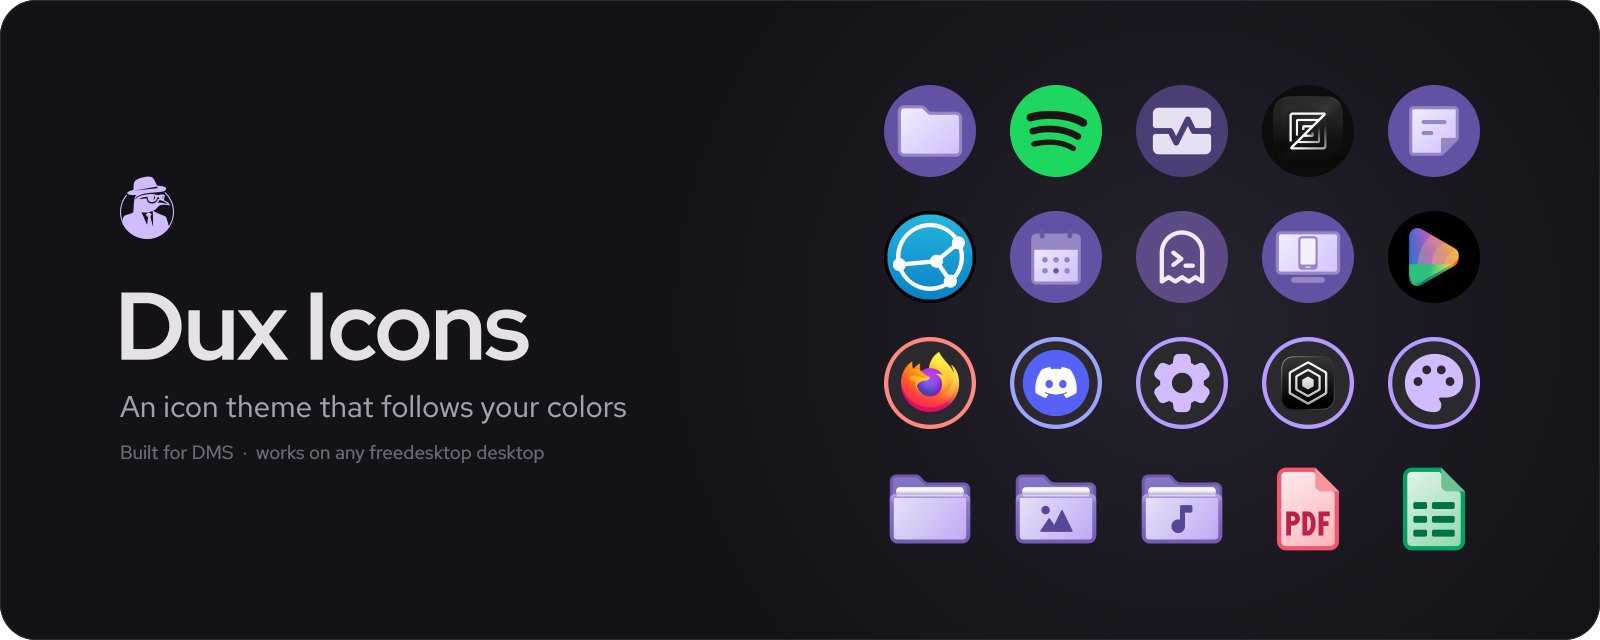
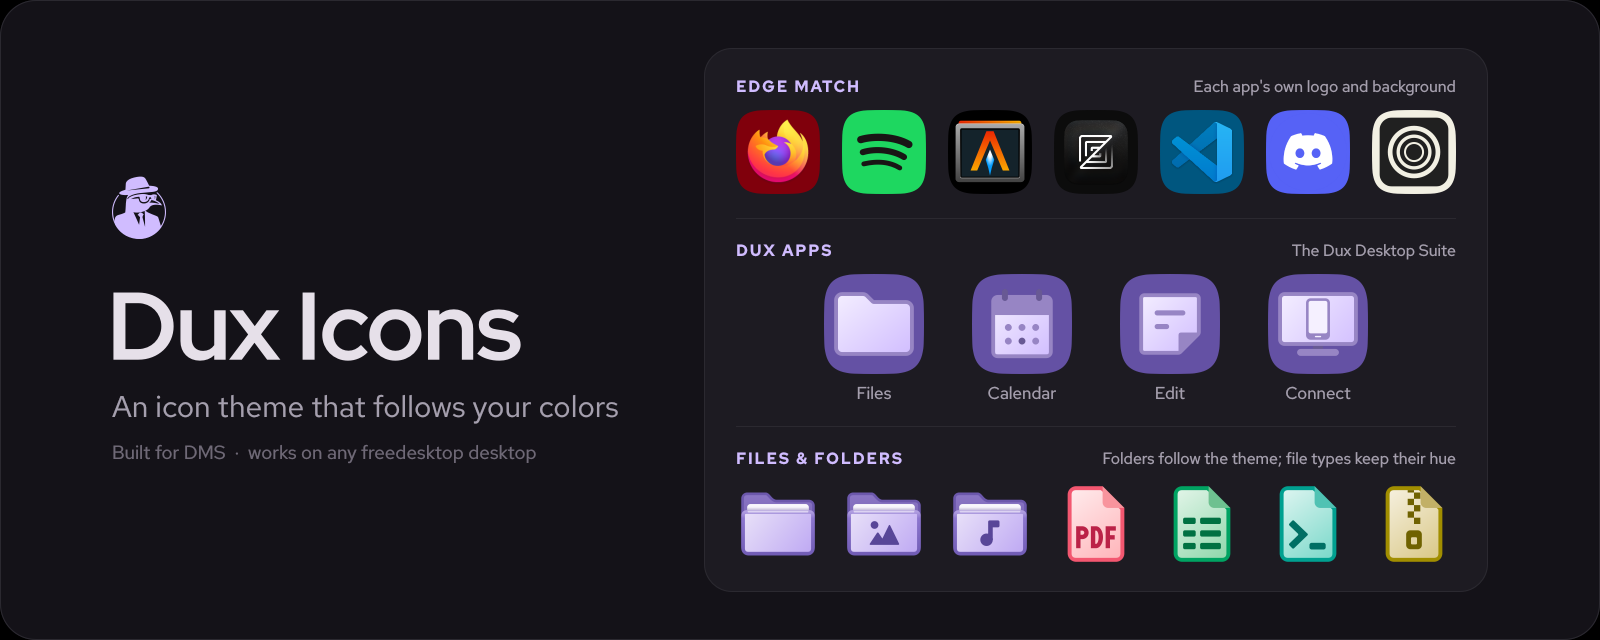
Update hero images

diff --git a/README.md b/README.md
@@ -14,7 +14,7 @@ Built for [DMS](https://github.com/duxlabs-dev/dux-shell), works on any freedesk
 
 <picture>
   <source media="(prefers-color-scheme: light)" srcset="assets/hero-light.png">
-  <img src="assets/hero-dark.png" alt="Dux Icons banner: the Dux logo and the line An icon theme that follows your colors, beside app icons in their own colors, a Ghostty glyph on a theme tile, app icons ringed in their own hue, and colored folders and file types" width="880">
+  <img src="assets/hero-dark.png" alt="Dux Icons banner: the Dux logo and title beside three grouped rows on squircle tiles — Edge Match app icons, the four Dux apps (Files, Calendar, Edit, Connect), and theme-colored folders and file types" width="880">
 </picture>
 
 </div>
@@ -44,7 +44,7 @@ Keep each app's own artwork (Color), repaint it in two tones of its tile (Tinted
 
 <picture>
   <source media="(prefers-color-scheme: light)" srcset="assets/styles-light.png">
-  <img src="assets/styles-dark.png" alt="The same eight icons in each app style: Color, Tinted, Themed and Monochrome, then in Color on ring tiles" width="720">
+  <img src="assets/styles-dark.png" alt="The same six apps in each app style: Color (Edge Match), Tinted, Themed and Monochrome, then in Color on ring tiles" width="720">
 </picture>
 
 **A normal icon theme**
